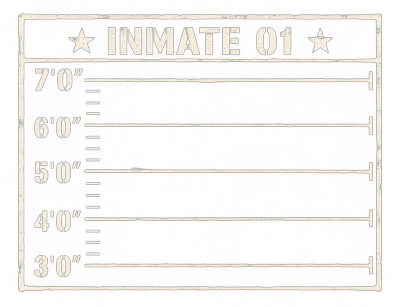
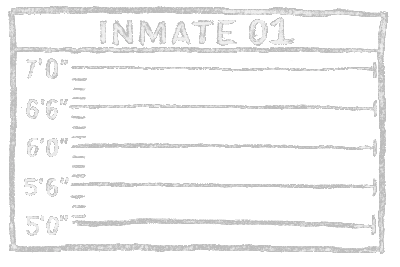
Art: darkened steel door, INMATE plates re-exported on a shared canvas
Corey's 2026-09-02 re-exports: door-steel.webp is darker (same 1246x1028,
now opaque RGB) and both inmate-*-chalk.webp plates are 400x267, so the
mugshot pair draws the same size on the bonus intro. INMATE_PLATE aspect
for marky follows; stamps regenerated.

Claude-Session: https://claude.ai/code/session_013n4uKDP3YQ8SN8dqeXSaxL

Changed region(s): [[0.0, 0.0, 0.99, 0.9588]]

diff --git a/apps/angry_mantis/src/game/constants.ts b/apps/angry_mantis/src/game/constants.ts
@@ -229,9 +229,10 @@ export const FREE_SPINS_ART = {
 // Mugshot height-chart plates (Corey's art, 2026-09-01). Each plate bakes in its INMATE label and
 // foot marks, and the two are MIRRORED — 01 runs its chart numbers down the left edge, 02 down the
 // right — so the head is nudged toward the plate's clear side. The pair is laid out at a common
-// HEIGHT with each plate keeping its own aspect, so the strokes never scale non-uniformly.
+// HEIGHT with each plate keeping its own aspect, so the strokes never scale non-uniformly. Both
+// plates share one 400×267 canvas since Corey's 2026-09-02 re-export, so they draw the same size.
 export const INMATE_PLATE = {
-	marky: { key: 'inmateChalk1', aspect: 400 / 307, headShift: 0.07 }, // INMATE 01, labels left
+	marky: { key: 'inmateChalk1', aspect: 400 / 267, headShift: 0.07 }, // INMATE 01, labels left
 	marty: { key: 'inmateChalk2', aspect: 400 / 267, headShift: -0.07 }, // INMATE 02, labels right
 } as const;
 

diff --git a/apps/angry_mantis/src/game/assetStamp.ts b/apps/angry_mantis/src/game/assetStamp.ts
@@ -65,14 +65,14 @@ export default {
 	"ui/cafeteria-background-base-bonus.webp": "06b5c8d4",
 	"ui/cafeteria-background-feast.webp": "9b9bdb69",
 	"ui/cafeteria-background-super.webp": "e240c948",
-	"ui/door-steel.webp": "f6cb365b",
+	"ui/door-steel.webp": "eeb13b03",
 	"ui/frame-desktop.png": "70055e47",
 	"ui/frame-mobile.png": "69528728",
 	"ui/gold-alphabet/glyphs.json": "c2f1eee6",
 	"ui/gold-alphabet/gold-alphabet.json": "6923e5fd",
 	"ui/gold-alphabet/gold-alphabet.webp": "343b3950",
-	"ui/inmate-1-chalk.webp": "48fb6ace",
-	"ui/inmate-2-chalk.webp": "fd2f9a26",
+	"ui/inmate-1-chalk.webp": "aa36cd0a",
+	"ui/inmate-2-chalk.webp": "a5e47ce7",
 	"ui/label-ante.webp": "d9ed5210",
 	"ui/label-bonus.webp": "53fc8f6c",
 	"ui/label-feast.webp": "0e524243",

diff --git a/apps/angry_mantis/src/components/BonusIntro.svelte b/apps/angry_mantis/src/components/BonusIntro.svelte
@@ -151,8 +151,8 @@
 			rect: add(contain(box(B.header.x, B.header.y, B.header.w, B.header.h), BONUS_INTRO_HEADER_ASPECT)),
 		};
 
-		// 2. INMATE plates — IDENTICAL boxes, each plate contained + centred inside its own. Their
-		// source aspects differ, so 02 draws wider than 01 within the same slot; the slots match.
+		// 2. INMATE plates — IDENTICAL boxes, each plate contained + centred inside its own (the two
+		// exports share an aspect now, so they also draw the same size).
 		const xs = hosts.length === 1 ? [B.plates.soloX] : (B.plates.x as readonly number[]);
 		const mugs = hosts.map((name, i) => {
 			const slot = box(xs[i], B.plates.y, B.plates.w, B.plates.h);
